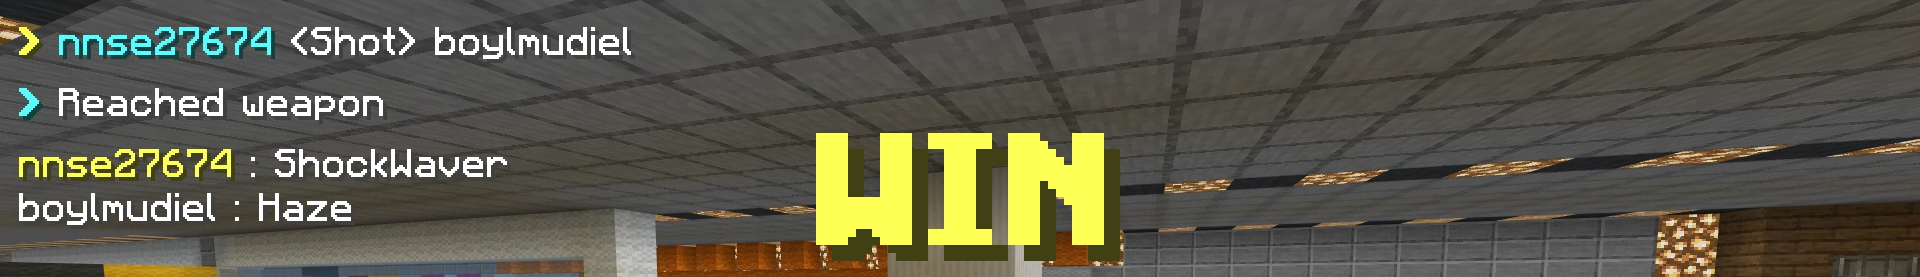
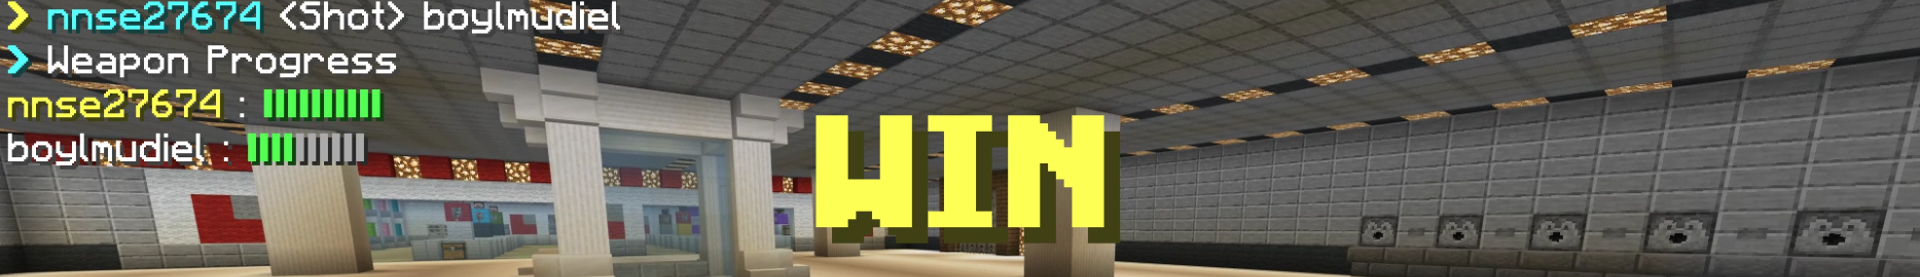
Levelingの書き直し

diff --git a/leveling.html b/leveling.html
@@ -46,7 +46,7 @@
 							<span class="image fit fade"><img src="images/description/entry.png" alt="" /></span>
 							<p>
 								エントリーのフェーズです。<br />
-								ウェポンの選択はできず、エアライドが初期ウェポンに固定されます。<br />
+								ウェポンの選択はできず、ランダムで初期ウェポンが設定されます。<br />
 								変化していくウェポンの順番は完全ランダムで、ゲームごとに順番がシャッフルされます。<br /><br />
 								すべてのエントリールームには商売人がいます。<br />
 								左クリックで攻撃するとサプライウェポンのメニューが開き、ゲーム内でランダムに支給されるウェポンのプールへの登録ができます。<br />
@@ -99,7 +99,7 @@
 							<span class="image fit fade"><img src="images/description/end_leveling.png" alt="" /></span>
 							<p>
 								ゲーム終了のフェーズです。<br />
-								ゲームの勝敗結果と、参加者がどのウェポンまで到達したかが表示されます。<br />
+								ゲームの勝敗結果と、参加者のウェポン進捗がプログレスバーとして表示されます。<br />
 								ゲーム自体、脱落したプレイヤーは観戦せずに退室することが可能ですが、このリザルト画面には退室したプレイヤーの記録も確認できます。<br />
 								終了時には勝者のイミテイトが剥がされ、纏っていたプレイヤーのスキンに戻ります。<br />
 								&nbsp;
